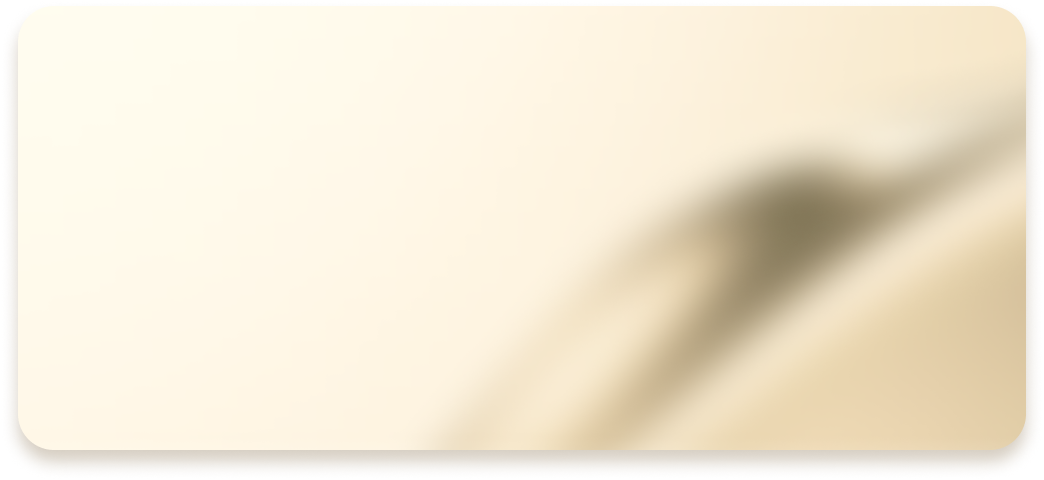
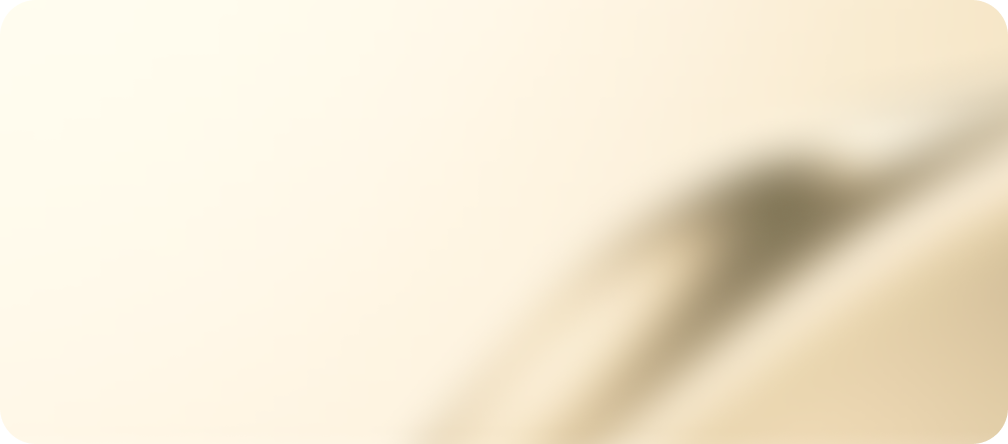
fix：权益中心ui

Changed region(s): [[0.0308, 0.0, 1.0, 1.0], [0.7073, 0.3806, 0.7688, 0.4392], [0.0, 0.9077, 0.0308, 0.9369]]

diff --git a/lib/page/equity_center/equity_center_controller.dart b/lib/page/equity_center/equity_center_controller.dart
@@ -19,7 +19,7 @@ class EquityCenterController extends GetxController {
       buttonIcon: Assets.equityCenter.iconCenterNormalButton.path,
       titleColor: ColorStyle.c333333,
       levelColor: ColorStyle.c0F51BB,
-      shadowColor: ColorStyle.c2856E5,
+      shadowColor: ColorStyle.cA4B2D5.withOpacity(0.5),
     ),
     EquityCenterBannerModel(
       title: '1',
@@ -30,7 +30,7 @@ class EquityCenterController extends GetxController {
       buttonIcon: Assets.equityCenter.iconCenterHighButton.path,
       titleColor: ColorStyle.c333333,
       levelColor: ColorStyle.c0F51BB,
-      shadowColor: ColorStyle.c6CABFF,
+      shadowColor: ColorStyle.cA3A4A5.withOpacity(0.5),
     ),
     EquityCenterBannerModel(
       title: '2',
@@ -41,7 +41,7 @@ class EquityCenterController extends GetxController {
       buttonIcon: Assets.equityCenter.iconCenterHigh2Button.path,
       titleColor: ColorStyle.c333333,
       levelColor: ColorStyle.c0F51BB,
-      shadowColor: ColorStyle.cF3A948,
+      shadowColor: ColorStyle.cAE9E86.withOpacity(0.5),
     ),
   ].obs;
 

diff --git a/lib/page/equity_center/equity_center_view.dart b/lib/page/equity_center/equity_center_view.dart
@@ -97,7 +97,7 @@ class _EquityCenterPageState extends State<EquityCenterPage> {
                             color: (item.shadowColor ?? ColorStyle.c6CABFF)
                                 .withOpacity(0.5),
                             offset: const Offset(0, 4),
-                            blurRadius: 12,
+                            blurRadius: 6,
                             spreadRadius: 0),
                       ]),
                   child: Column(
@@ -231,7 +231,7 @@ class _EquityCenterPageState extends State<EquityCenterPage> {
                   ),
                 ),
                 Positioned(
-                  right: 0,
+                  right: 5.w,
                   child: Image.asset(
                     item.levelIcon ?? '',
                     width: 116.w,

diff --git a/lib/utils/color_style_util.dart b/lib/utils/color_style_util.dart
@@ -16,6 +16,10 @@ class ColorStyle {
   static const c6CABFF = Color(0xff6CABFF);
   static const cF3A948 = Color(0xffF3A948);
   static const c152DBC = Color(0xff152DBC);
+  static const cA3A4A5 = Color(0xffA3A4A5);
+  static const cAE9E86 = Color(0xffAE9E86);
+  static const cA4B2D5 = Color(0xffA4B2D5);
+
 
 
 
